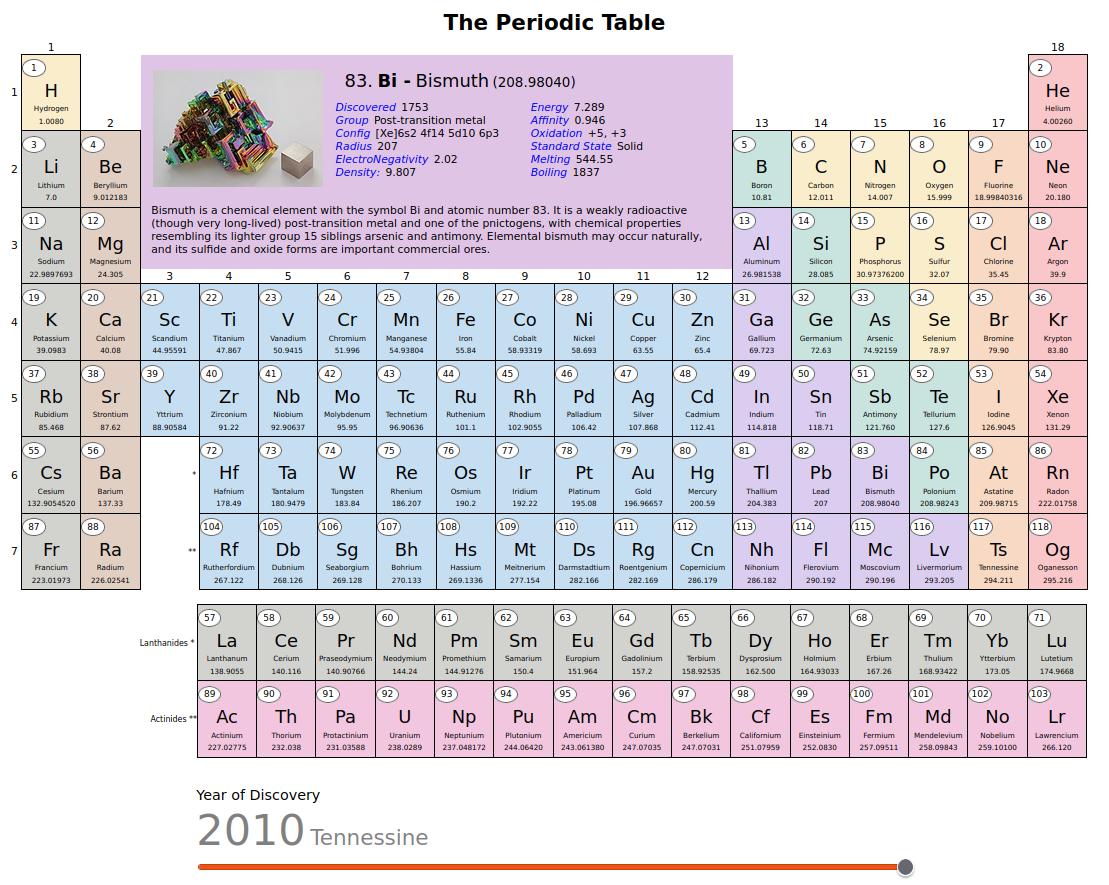
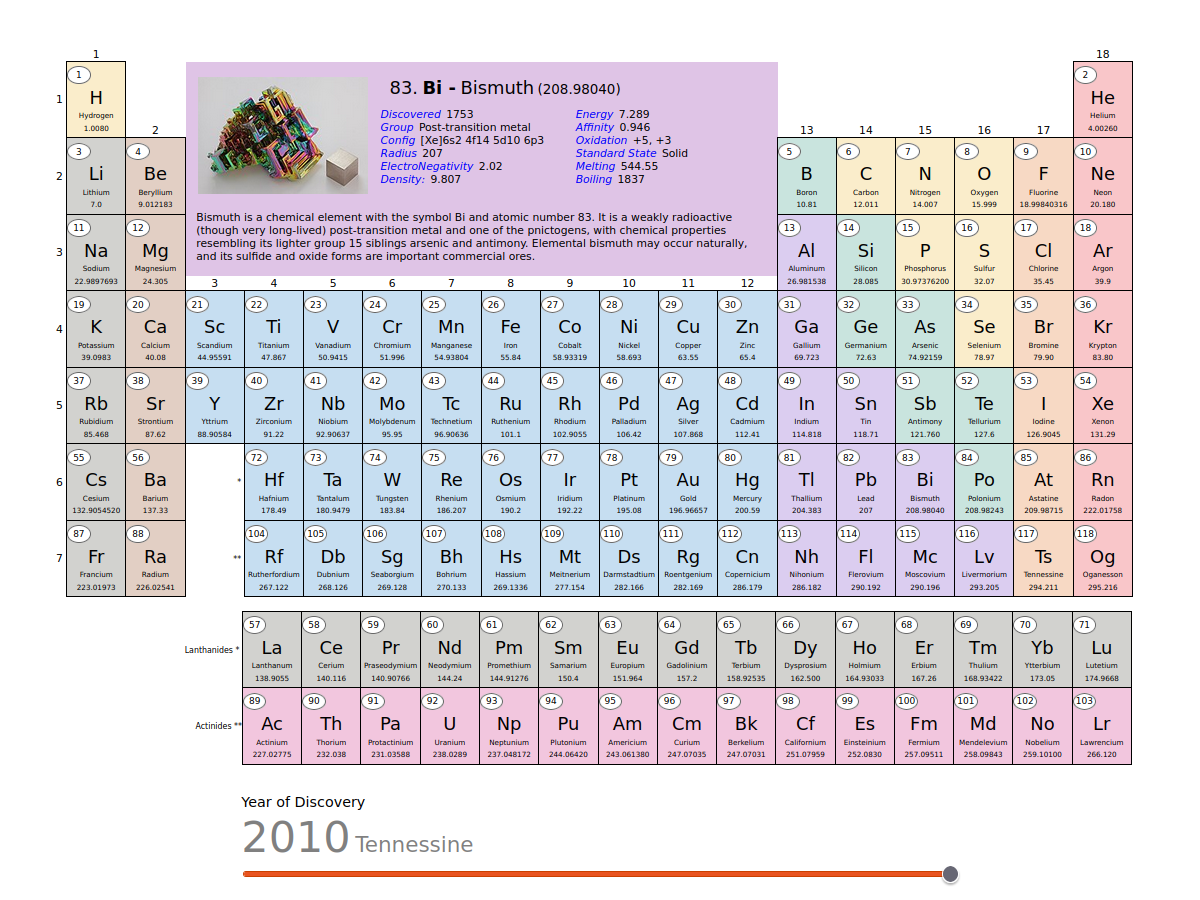
add images and css

diff --git a/site/assets/css/style-old.css b/site/assets/css/style-old.css
@@ -1,0 +1,141 @@
+:root {
+  --clr-primary-400: 263 55% 52%;
+  --clr-secondary-400: 217 19% 35%;
+  --clr-secondary-500: 219 29% 14%;
+  --clr-neutral-100: 0 0% 100%;
+  --clr-neutral-200: 210 46% 95%;
+  --clr-neutral-300: 0 0% 81%;
+
+  --ff-primary: "Barlow Semi Condensed", sans-serif;
+
+  --fw-400: 500;
+  --fw-700: 600;
+
+  --fs-300: 0.6875rem;
+  --fs-400: 0.8125rem;
+  --fs-500: 1.25rem;
+
+  --boder-color: color: #374343;
+}
+
+html {
+  background: rgb(76,91,92);
+  background: linear-gradient(90deg, rgba(76,91,92,.3) 0%, rgba(76,91,92,.5) 50%, rgba(76,91,92,.3) 100%);
+  background-size: cover;
+  width: 100%;
+  height: 100%;
+}
+
+body {
+
+  font-family: Verdana, Arial, san-serif
+
+}
+
+#content {
+  background-color: #FFFFFF;
+  border-radius: 15px;
+  color: var(--border-color);
+  padding: 0em 1em 1em 1em;
+  width: 82ch;
+  border: 3px solid #374343
+}
+
+.center {
+  display: block;
+  margin-left: auto;
+  margin-right: auto;
+  width: 50%;
+}
+
+canvas { 
+  border: 2px solid #374343; 
+}
+
+
+.title {
+  font-size: 4vh;
+  text-align: center;
+}
+
+a {
+  color: #279995;
+}
+
+li {
+  margin-bottom: 0 1em 1em 1em;
+}
+
+p {
+  margin-bottom: 1.5em;
+}
+
+#footer {
+  margin: 1em;
+}
+
+.post-grid {
+  display: grid;
+  gap: 1.5 rem;
+  grid-auto-columns: 1fr;
+  padding-block: 2rem;
+  width: min(95%, 70rem);
+  margin-inline: auto;
+}
+
+.post-grid article {
+
+  font-size: var(--fs-400);
+  padding:1em;
+  border-radius: 0.5rem;
+  border: 1px solid black;
+  text-align: center;
+}
+
+.post-grid article p {
+  padding:1em;
+  text-align: left;
+}
+
+.post-grid article img {
+  height: 160px;  
+  margin: auto;
+}
+
+.post-grid:nth-child(1) {
+  grid-area: one;
+}
+.post-grid:nth-child(2) {
+  grid-area: two;
+}
+.post-grid:nth-child(3) {
+  grid-area: three;
+}
+.post-grid:nth-child(4) {
+  grid-area: four;
+}
+.post-grid:nth-child(5) {
+  grid-area: five;
+}
+
+
+@media screen and (min-width: 33em) {
+  .post-grid{
+      grid-template-areas:
+      "one"
+      "two"
+      "five"
+      "four";
+  }
+}
+
+@media screen and (min-width: 38em) {
+  .post-grid{
+    grid-template-areas:
+     'one one'
+     'two five'
+     'three five'
+     'four four';
+  }
+}
+

diff --git a/site/assets/css/style.css b/site/assets/css/style.css
@@ -1,29 +1,34 @@
+
+h2 { margin-top: 0px; }
+
 body {
-  background-color: #4C5B5C;
-  font-family: Verdana, Arial, san-serif
+  text-rendering: optimizeLegibility;
+  font-family: 'Roboto', 'Helvetica Neue', Helvetica, Arial, sans-serif;
+  font-style: normal;
+  font-weight: 400;
+  letter-spacing: 0;
+  -webkit-font-smoothing: antialiased;
+  -moz-osx-font-smoothing: grayscale;
+  -moz-font-feature-settings: "liga" on;
 
 }
 
-#content {
-  background-color: #F9FBF2;
-  border-radius: 15px;
-  color: #374343;
-  padding: 0em 1em 1em 1em;
-  width: 82ch;
-  border: 3px solid #374343
-}
-
-.center {
-  display: block;
+.container {
+  width: 32ch;
   margin-left: auto;
   margin-right: auto;
-  width: 50%;
 }
+
 
 canvas { 
   border: 2px solid #374343; 
 }
 
+
+.banner {
+  font-style: italic;
+  text-align: center;
+}
 
 .title {
   font-size: 4vh;
@@ -32,6 +37,15 @@ canvas {
 
 a {
   color: #279995;
+}
+
+.btn-default {
+  background-color: #EEEEEE;
+  padding: 8px 20px;
+  text-decoration:none;
+  font-weight:bold;
+  border-radius:5px;
+  cursor:pointer;
 }
 
 li {
@@ -45,3 +59,44 @@ p {
 #footer {
   margin: 1em;
 }
+
+.grid {
+  display: grid;
+  grid-template-columns: repeat(1, minmax(280px, 1fr));
+  grid-gap: 20px;
+  align-items: stretch;
+}
+
+.grid > article {
+  border: 1px solid #ccc;
+  box-shadow: 2px 2px 6px 0px rgba(0, 0, 0, 0.3);
+  text-align: center;
+  border-radius: 5px;
+  max-width: 280px;
+}
+
+.grid .text {
+  padding:1em;
+  text-align: left;
+}
+
+.grid > article img {
+  max-width: 100%;
+  max-height: 160px;
+  vertical-align: middle;
+}
+
+.grid .text {
+  padding: 20px;
+}
+
+@media (min-width: 600px) {
+  .grid { grid-template-columns: repeat(2, minmax(280px, 1fr)); }
+  .container { width: 66ch; margin-left: auto; margin-right: auto; }
+}
+
+@media (min-width: 1000px) {
+  .grid { grid-template-columns: repeat(3, minmax(280px, 1fr)); }
+  .container { width: 100ch; margin-left: auto; margin-right: auto; }
+}
+
